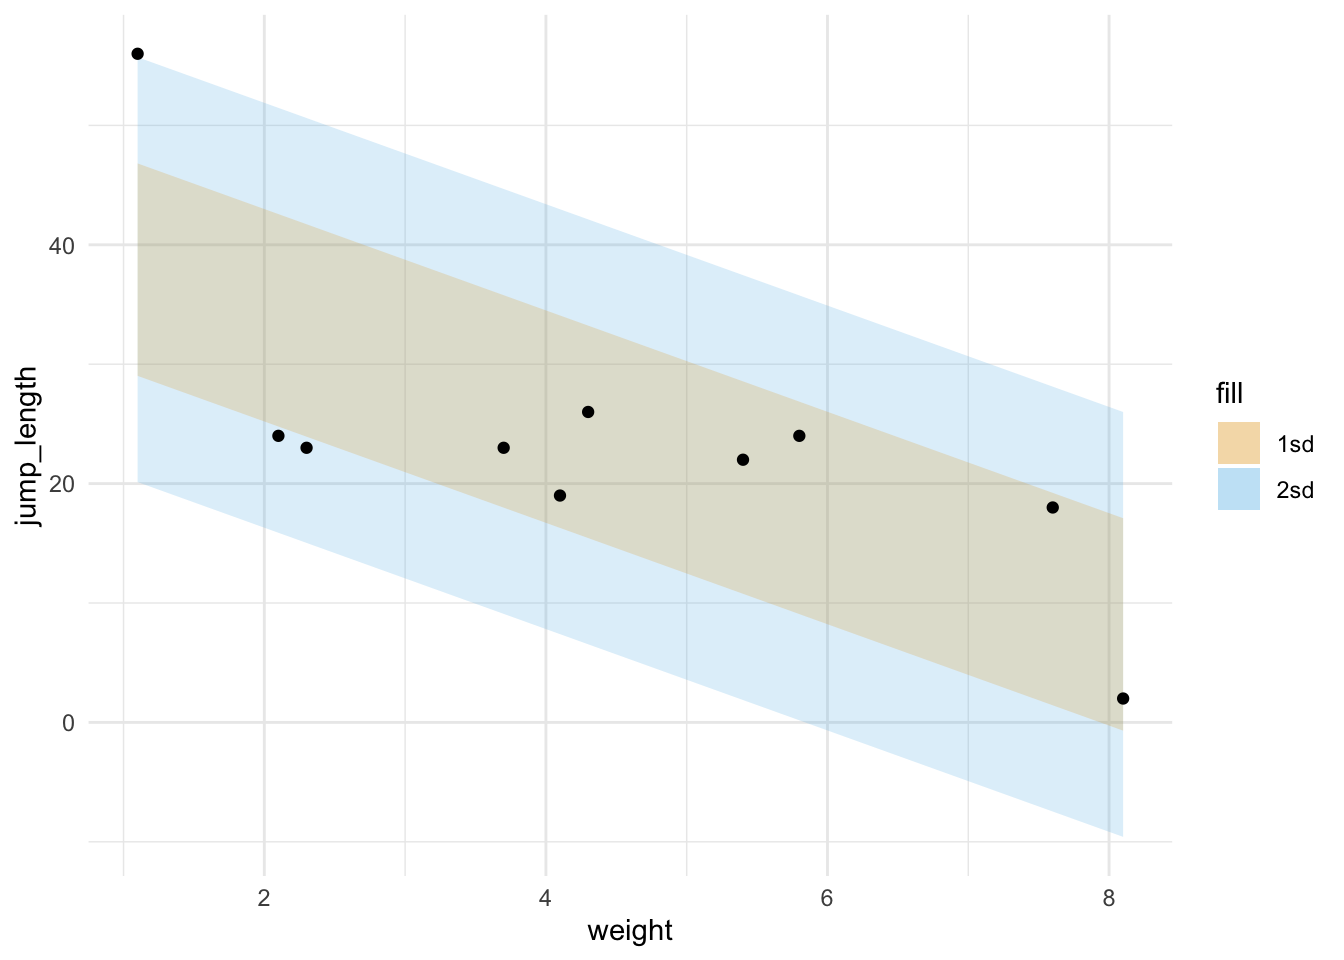
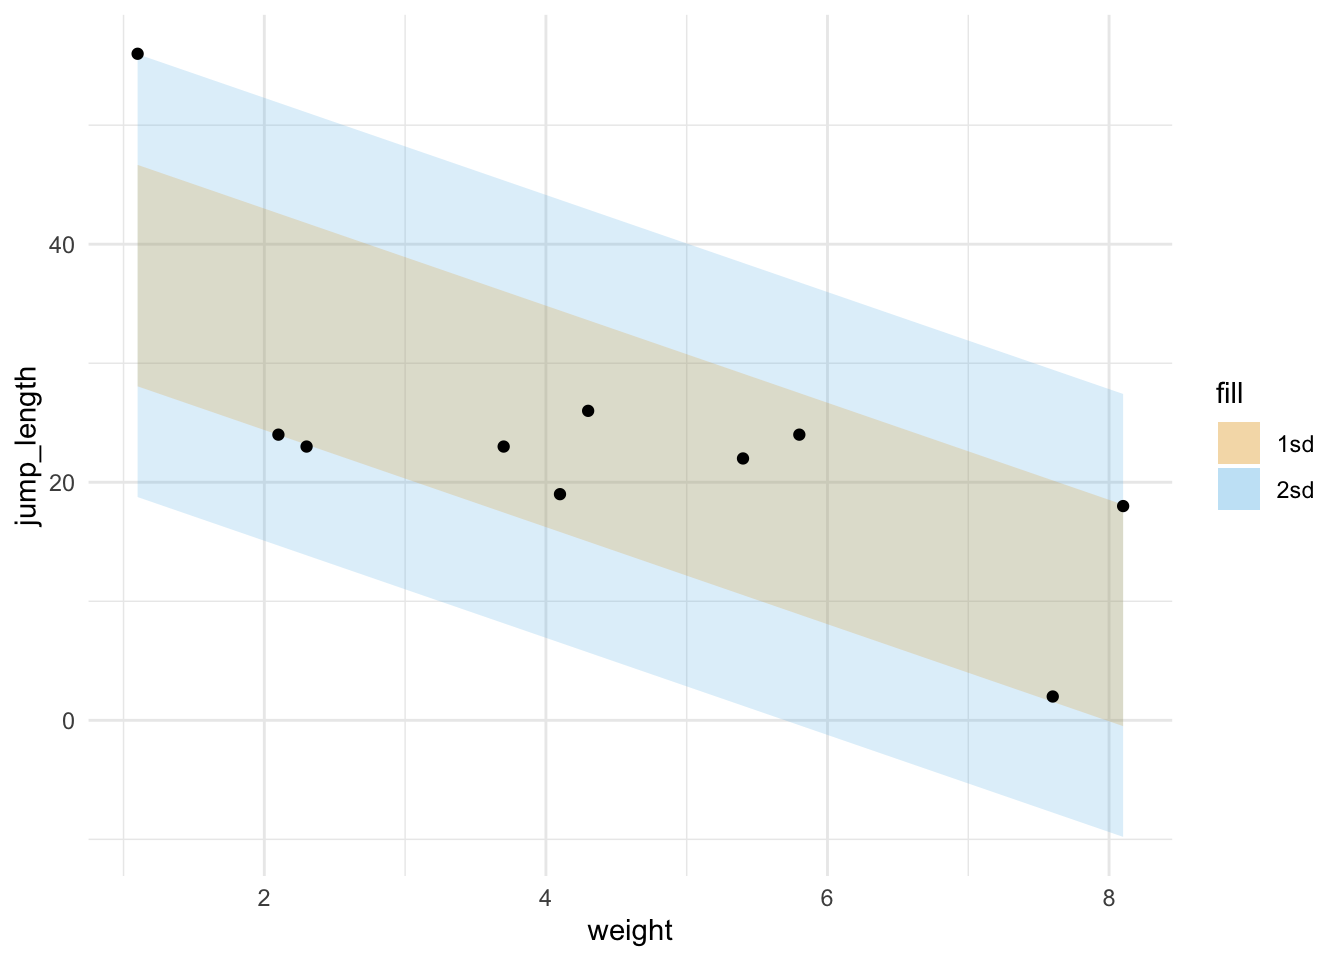
added text

diff --git a/docs/stat-modeling-outlier.html b/docs/stat-modeling-outlier.html
@@ -760,7 +760,7 @@ div.csl-indent {
 
 </header>
 
-<p><em>Letzte Änderung am 01. February 2024 um 16:01:30</em></p>
+<p><em>Letzte Änderung am 02. February 2024 um 09:39:45</em></p>
 <blockquote class="blockquote">
 <p><em>“You should be far more concentrated with your current trajectory than with your current results” — Atomic Habits’</em></p>
 </blockquote>
@@ -1191,7 +1191,7 @@ Friedhof der R Pakete
 </tr>
 <tr class="odd">
 <td style="text-align: center;">7.6</td>
-<td style="text-align: center;">18</td>
+<td style="text-align: center;">2</td>
 </tr>
 <tr class="even">
 <td style="text-align: center;">4.3</td>
@@ -1203,14 +1203,14 @@ Friedhof der R Pakete
 </tr>
 <tr class="even">
 <td style="text-align: center;">8.1</td>
-<td style="text-align: center;">2</td>
+<td style="text-align: center;">18</td>
 </tr>
 </tbody>
 </table>
 </div>
 </div>
 </div>
-<p>Wir können uns die Daten der <a href="#tbl-cook-tables">Tabelle&nbsp;<span>40.3</span></a> auch als Visualisierung in <a href="#fig-cooks-1">Abbildung&nbsp;<span>40.3</span></a> anschauen. Wir sehen die starken Ausreißer in der Visualisierung. Das ist auch so gewollt, wir haben die Ausreißer extra sehr extrem gewählt.</p>
+<p>Jetzt schauen wir uns die Daten der obigen Tabellen auch als Visualisierung in <a href="#fig-cooks-1">Abbildung&nbsp;<span>40.3</span></a> an. Wir sehen die starken Ausreißer in der Visualisierung. Das ist auch so gewollt, wir haben die Ausreißer extra sehr extrem gewählt. Ich habe jetzt bewusst den letzten Ausreißer etwas weniger extrem ausgewählt. Weniger in dem Sinne, dass der Abstand zu den anderen Punkten nicht so groß ist, aber dennoch deutlich.</p>
 <div id="fig-cooks-1" class="cell quarto-layout-panel">
 <figure class="figure">
 <div class="quarto-layout-row quarto-layout-valign-top">
@@ -1251,16 +1251,16 @@ Friedhof der R Pakete
 <pre><code># A tibble: 10 × 3
    weight jump_length .cooksd
     &lt;dbl&gt;       &lt;dbl&gt;   &lt;dbl&gt;
- 1    1.1          56 1.38   
- 2    2.3          23 0.165  
- 3    2.1          24 0.183  
- 4    3.7          23 0.0120 
- 5    4.1          19 0.0274 
- 6    5.4          22 0.00467
- 7    7.6          18 0.211  
- 8    4.3          26 0.00193
- 9    5.8          24 0.0379 
-10    8.1           2 0.210  </code></pre>
+ 1    1.1          56 1.34   
+ 2    2.3          23 0.140  
+ 3    2.1          24 0.154  
+ 4    3.7          23 0.0103 
+ 5    4.1          19 0.0245 
+ 6    5.4          22 0.00371
+ 7    7.6           2 0.257  
+ 8    4.3          26 0.00182
+ 9    5.8          24 0.0321 
+10    8.1          18 0.422  </code></pre>
 </div>
 </div>
 <p>Zuerst sehen wir, dass die <span class="math inline">\(1\)</span>-ste und die <span class="math inline">\(10\)</span>-te Beobachtung sehr hohe Werte der Cook’schen Distanz haben. Das heist hier ist irgendwas nicht in Ordnung. Das haben wir ja auch so erwartet. Die beiden Beobachtungen sind ja auch unsere erschaffene Ausreißer. Nun brauchen wir noch einen Threshold um zu entscheiden ab wann wir eine Beobachtung als Ausreißer definieren. Es hat sich als “Kulturkonstante” der Wert von <span class="math inline">\(4/n\)</span> als Threshold etabliert.</p>
@@ -1301,7 +1301,7 @@ Friedhof der R Pakete
 <div class="cell">
 <div class="sourceCode cell-code" id="cb13"><pre class="sourceCode r code-with-copy"><code class="sourceCode r"><span id="cb13-1"><a href="#cb13-1" aria-hidden="true" tabindex="-1"></a>out_tbl[<span class="sc">-</span>remove_weight_id,]</span></code><button title="In die Zwischenablage kopieren" class="code-copy-button"><i class="bi"></i></button></pre></div>
 <div class="cell-output cell-output-stdout">
-<pre><code># A tibble: 9 × 2
+<pre><code># A tibble: 8 × 2
   weight jump_length
    &lt;dbl&gt;       &lt;dbl&gt;
 1    2.3          23
@@ -1309,10 +1309,9 @@ Friedhof der R Pakete
 3    3.7          23
 4    4.1          19
 5    5.4          22
-6    7.6          18
+6    7.6           2
 7    4.3          26
-8    5.8          24
-9    8.1           2</code></pre>
+8    5.8          24</code></pre>
 </div>
 </div>
 <p>Du siehst, dieser Zugang an die Detektion von Ausreißern ist sehr simple. Wir schauen einfach auf die Cook’sche Distanz und haben so einen schnellen Überblick. Ich empfehle auch gerne dieses Vorgehen um einmal einen Überblick über die Daten zu erhalten. Leider liefern nicht alle Modelle eine Cook’sche Distanz, daher müssen wir uns jetzt etwas strecken und noch andere Verfahren einmal ausprobieren.</p>
@@ -1436,22 +1435,22 @@ mean in group ctrl mean in group dose
 <pre><code># A tibble: 10 × 4
    weight jump_length .fitted .resid
     &lt;dbl&gt;       &lt;dbl&gt;   &lt;dbl&gt;  &lt;dbl&gt;
- 1    1.1          56   37.9   18.1 
- 2    2.3          23   32.8   -9.83
- 3    2.1          24   33.7   -9.68
- 4    3.7          23   26.9   -3.88
- 5    4.1          19   25.2   -6.19
- 6    5.4          22   19.7    2.33
- 7    7.6          18   10.3    7.67
- 8    4.3          26   24.3    1.66
- 9    5.8          24   18.0    6.03
-10    8.1           2    8.21  -6.21</code></pre>
+ 1    1.1          56   37.4   18.6 
+ 2    2.3          23   32.5   -9.47
+ 3    2.1          24   33.3   -9.28
+ 4    3.7          23   26.8   -3.76
+ 5    4.1          19   25.1   -6.13
+ 6    5.4          22   19.8    2.17
+ 7    7.6           2   10.9   -8.85
+ 8    4.3          26   24.3    1.69
+ 9    5.8          24   18.2    5.81
+10    8.1          18    8.81   9.19</code></pre>
 </div>
 </div>
 <div class="cell">
 <div class="sourceCode cell-code" id="cb22"><pre class="sourceCode r code-with-copy"><code class="sourceCode r"><span id="cb22-1"><a href="#cb22-1" aria-hidden="true" tabindex="-1"></a><span class="fu">sd</span>(resid_tbl<span class="sc">$</span>.resid)</span></code><button title="In die Zwischenablage kopieren" class="code-copy-button"><i class="bi"></i></button></pre></div>
 <div class="cell-output cell-output-stdout">
-<pre><code>[1] 8.896545</code></pre>
+<pre><code>[1] 9.303071</code></pre>
 </div>
 </div>
 <div class="cell">
